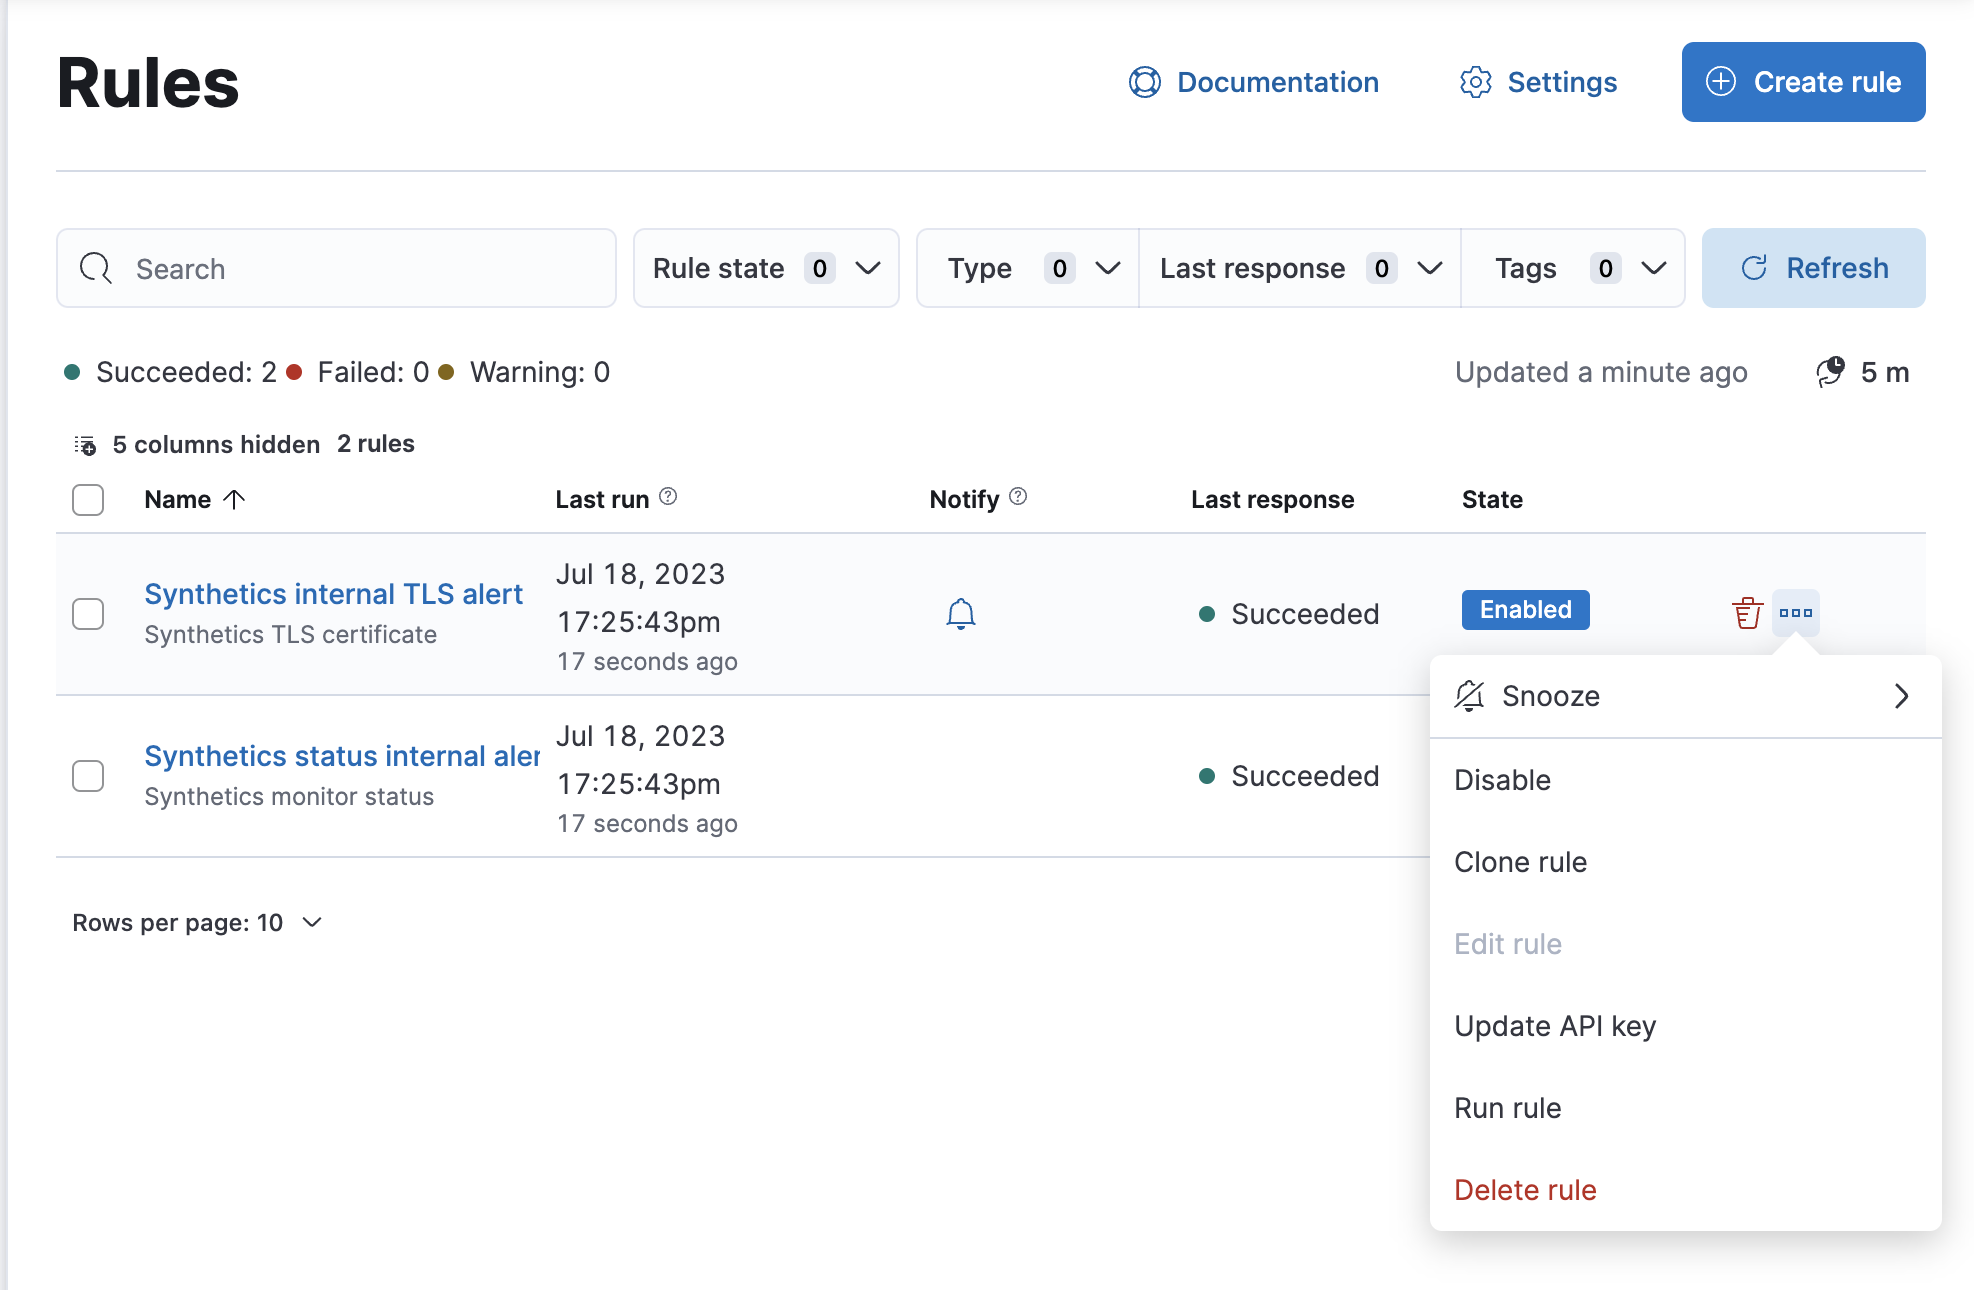
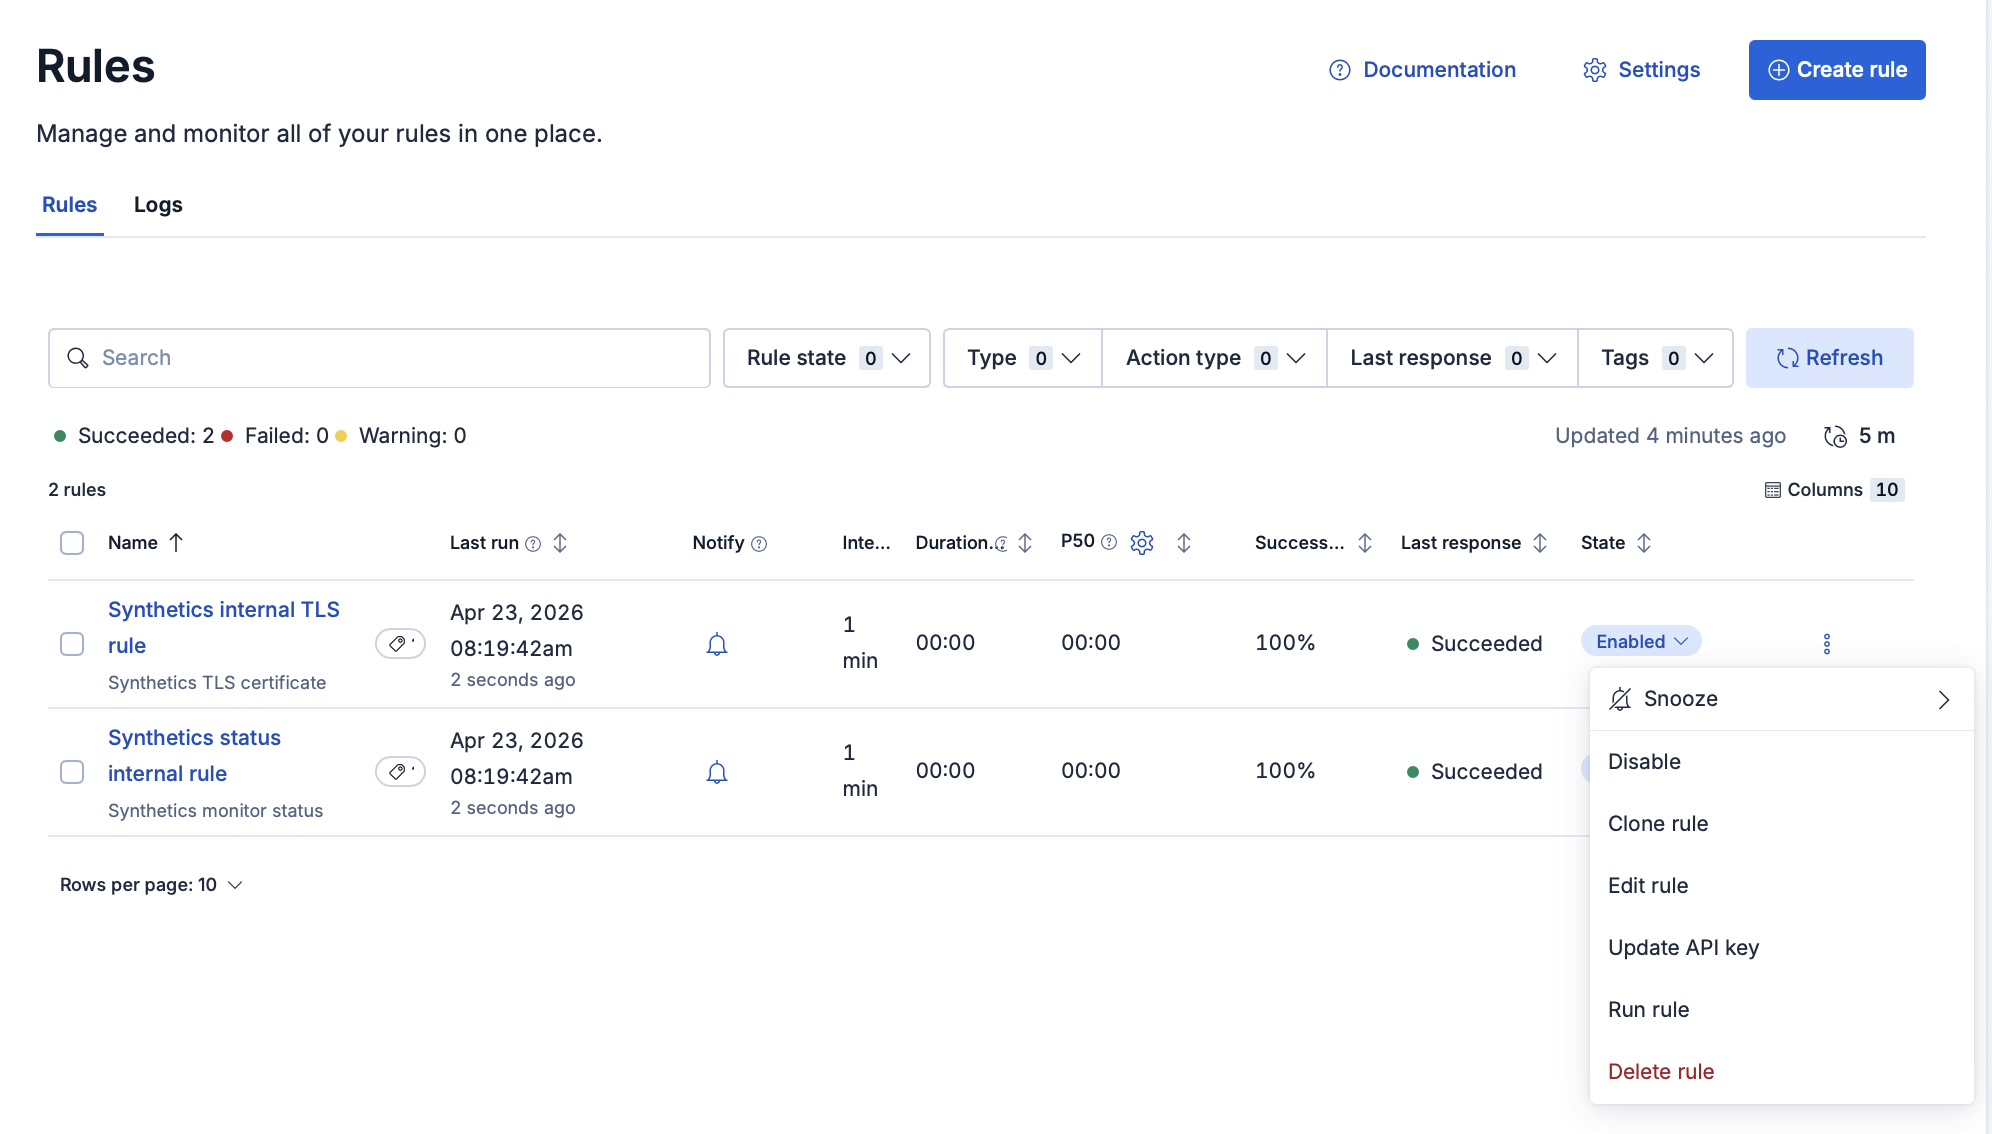
Update screenshots

diff --git a/solutions/observability/synthetics/configure-settings.md b/solutions/observability/synthetics/configure-settings.md
@@ -49,7 +49,10 @@ You can enable and disable default alerts for individual monitors in a few ways:
 
 ::::
 
-In the **Alerting** tab on the Synthetics Settings page, you can add and configure connectors. If you are running in Elastic Cloud, then an SMTP connector will automatically be configured, allowing you to easily set up email alerts. Read more about all available connectors in [Action types](/solutions/observability/incident-management/create-an-apm-anomaly-rule.md).
+In the **Alerting** tab on the **Monitor** Settings page, you can:
+- {applies_to}`stack: ga` Enable or disable default rules.
+- Add and configure connectors. Check all available connectors in [Action types](/solutions/observability/incident-management/create-an-apm-anomaly-rule.md).
+- Set up email alerts, if you are running in Elastic Cloud. An SMTP connector will automatically be configured. 
 
 :::{image} /solutions/images/observability-synthetics-settings-alerting.png
 :alt: Alerting tab on the Synthetics Settings page in {{kib}}